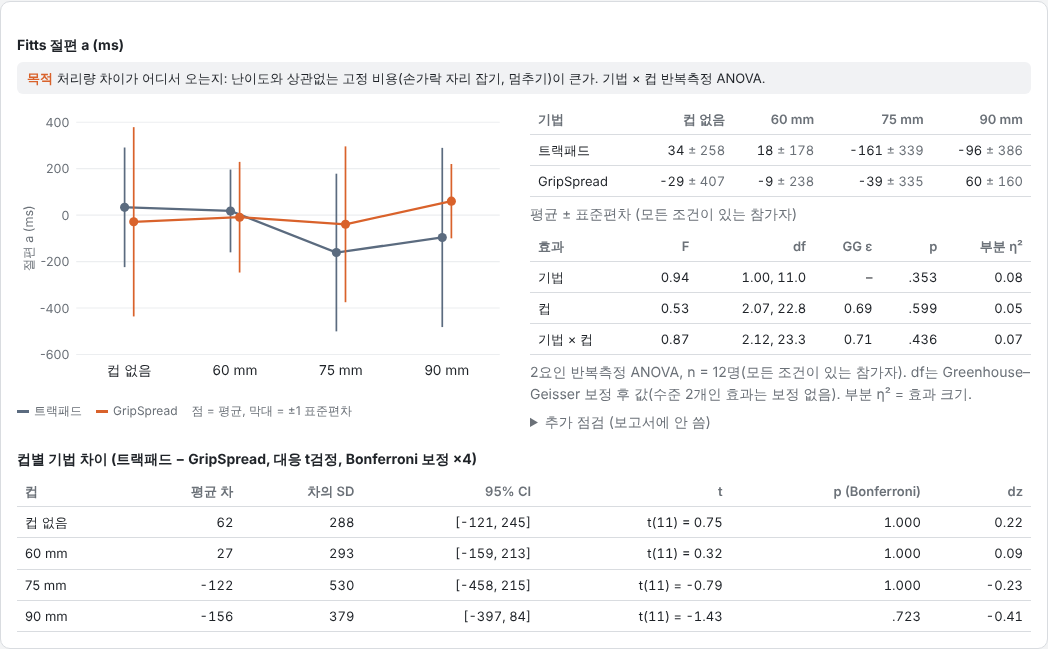
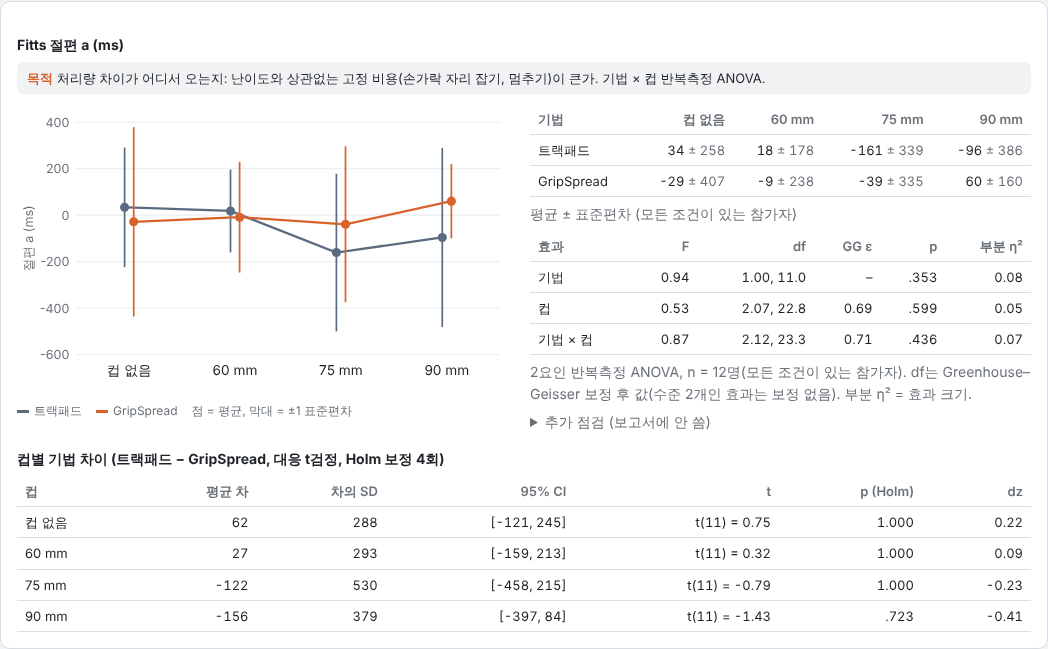
Post hoc correction: Holm (paired t per cup, ISO items, SEQ per cup)
Claude-Session: https://claude.ai/code/session_013deP5HWVjtqsNTzrxM9ME1

diff --git a/dist/gripspread_analysis.html b/dist/gripspread_analysis.html
@@ -430,7 +430,7 @@ function ols(x, y){ const k = x.length; if(k < 3) return { a:NaN, b:NaN, r2:NaN,
   const b = sxy / sxx, a = my - b*mx, sse = y.reduce((s, v, i) => s + (v - a - b*x[i])**2, 0), sst = y.reduce((s, v) => s + (v-my)**2, 0);
   const r2 = sst ? 1 - sse/sst : NaN, se = Math.sqrt(sse / (k-2) / sxx), t = b / se;
   return { a, b, r2, t, p:isFinite(t) ? pT2(Math.abs(t), k-2) : NaN, k }; }
-// Bonferroni: p × number of comparisons, capped at 1 (the post hoc correction used in the report; Lecture 13)
+// Bonferroni: p × number of comparisons, capped at 1 (kept for reference; the report uses Holm)
 function bonf(ps){ const m = ps.filter(isFinite).length; return ps.map(p => isFinite(p) ? Math.min(1, p * m) : NaN); }
 // Wilcoxon signed-rank, exact (ties: average ranks, distribution over doubled ranks)
 function wilcoxon(x, y){
@@ -683,10 +683,10 @@ function postHoc(cells, key, cups, digits, pct){
   const tests = cups.map(c => { const x = [], y = [];
     for(const pid of used){ const a = cells.find(e => e.pid === pid && e.tech === 'trackpad' && e.cup === c), b = cells.find(e => e.pid === pid && e.tech === 'gs' && e.cup === c); x.push(a[key]); y.push(b[key]); }
     return x.length >= 3 ? pairedT(x, y) : null; });
-  const adj = bonf(tests.map(r => r ? r.p : NaN)), f = v => pct ? fmt(v*100, digits) + '%p' : fmt(v, digits);
+  const adj = holm(tests.map(r => r ? r.p : NaN)), f = v => pct ? fmt(v*100, digits) + '%p' : fmt(v, digits);
   const rows = cups.map((c, i) => { const r = tests[i]; if(!r) return `<tr><td>${CUP_NAME[c]}</td><td colspan="6" class="muted">참가자 부족</td></tr>`;
     return `<tr><td>${CUP_NAME[c]}</td><td class="num">${f(r.m)}</td><td class="num">${f(r.s)}</td><td class="num">[${f(r.lo)}, ${f(r.hi)}]</td><td class="num">t(${r.df}) = ${fmt(r.t)}</td><td class="num${stars(adj[i])}">${fp(adj[i])}</td><td class="num">${fmt(r.d)}</td></tr>`; });
-  return `<h3>컵별 기법 차이 (트랙패드 − GripSpread, 대응 t검정, Bonferroni 보정 ×${cups.length})</h3><table><tr><th>컵</th><th>평균 차</th><th>차의 SD</th><th>95% CI</th><th>t</th><th>p (Bonferroni)</th><th>dz</th></tr>${rows.join('')}</table>`;
+  return `<h3>컵별 기법 차이 (트랙패드 − GripSpread, 대응 t검정, Holm 보정 ${cups.length}회)</h3><table><tr><th>컵</th><th>평균 차</th><th>차의 SD</th><th>95% CI</th><th>t</th><th>p (Holm)</th><th>dz</th></tr>${rows.join('')}</table>`;
 }
 function block(title, cells, key, cups, opt){
   const desc = describeWS(cells, key, cups), { Y, used } = matrix(cells, key, cups);
@@ -714,17 +714,17 @@ function render(R){
   const tilt = block('컵 최대 기울기 변화 (°, H3)', cells, 'tilt_max', CUPS3, { yLabel:'최대 기울기 변화 (°)', digits:2, purpose:'<b>H3</b> 컵이 커질수록 트랙패드에서 컵이 더 기우는가. 기법 × 컵 상호작용이 유의하고 큰 컵에서 트랙패드가 더 크면 H3 지지.' });
   const tilt1 = block('컵 1초 안 최대 기울기 변화 (°, H3 보조: 시행 길이에 덜 민감)', cells, 'tilt_1s', CUPS3, { yLabel:'1초 안 최대 기울기 변화 (°)', digits:2, purpose:'H3 보조. 오래 걸려서 많이 기운 것뿐인지 배제. 이것도 같은 방향이면 H3 해석이 단단해진다.' });
   const seqB = block('SEQ: 조건별 난이도 (1 매우 어려움 – 7 매우 쉬움)', cells, 'seq', CUPS, { yLabel:'SEQ (높을수록 쉬움)', digits:2 });
-  // SEQ is ordinal: per cup, the two techniques compared with a Wilcoxon signed-rank test, Bonferroni over the cups
+  // SEQ is ordinal: per cup, the two techniques compared with a Wilcoxon signed-rank test, Holm over the cups
   const seqRows = CUPS.map(c => { const x = [], y = [];
     for(const pid of [...new Set(cells.map(e => e.pid))]){ const a = cells.find(e => e.pid === pid && e.tech === 'trackpad' && e.cup === c), b = cells.find(e => e.pid === pid && e.tech === 'gs' && e.cup === c);
       if(a && b && isFinite(a.seq) && isFinite(b.seq)){ x.push(a.seq); y.push(b.seq); } }
     return { c, x, y, n:x.length, w:x.length ? wilcoxon(x, y) : { W:NaN, p:NaN } }; });
-  const seqP = bonf(seqRows.map(r => r.w.p));
+  const seqP = holm(seqRows.map(r => r.w.p));
   const seqMed = v => { const q = [...v].sort((a, b) => a - b); return q.length ? (q[(q.length-1)>>1] + q[q.length>>1]) / 2 : NaN; };
   const seqHtml = `<div class="card"><h3>SEQ: 조건별 난이도 (1 매우 어려움 – 7 매우 쉬움)</h3>
-    <p class="purpose"><b>목적</b> 성능 결과(H1)와 참가자 체감이 같은 방향인가. 보조 지표라 결론은 성능·IMU로 내고 이건 뒷받침용. 서열 척도라 컵마다 두 기법을 Wilcoxon으로 비교(Bonferroni ×4).</p>
+    <p class="purpose"><b>목적</b> 성능 결과(H1)와 참가자 체감이 같은 방향인가. 보조 지표라 결론은 성능·IMU로 내고 이건 뒷받침용. 서열 척도라 컵마다 두 기법을 Wilcoxon으로 비교(Holm 보정 4회).</p>
     <div class="grid"><div class="chart">${chart(seqB.desc, CUPS, { yLabel:'SEQ (높을수록 쉬움)', digits:2 })}${legendOf()}</div><div class="scroll">
-    <table><tr><th>컵</th><th>트랙패드 평균 (SD)</th><th>GripSpread 평균 (SD)</th><th>트랙패드 중앙값</th><th>GripSpread 중앙값</th><th>n</th><th>Wilcoxon W</th><th>p (Bonferroni)</th></tr>${seqRows.map((r, i) => `<tr><td>${CUP_NAME[r.c]}</td><td class="num">${fmt(mean(r.x),2)} (${fmt(sd(r.x),2)})</td><td class="num">${fmt(mean(r.y),2)} (${fmt(sd(r.y),2)})</td><td class="num">${fmt(seqMed(r.x),1)}</td><td class="num">${fmt(seqMed(r.y),1)}</td><td class="num">${r.n}</td><td class="num">${fmt(r.w.W,1)}</td><td class="num${stars(seqP[i])}">${fp(seqP[i])}</td></tr>`).join('')}</table></div></div>
+    <table><tr><th>컵</th><th>트랙패드 평균 (SD)</th><th>GripSpread 평균 (SD)</th><th>트랙패드 중앙값</th><th>GripSpread 중앙값</th><th>n</th><th>Wilcoxon W</th><th>p (Holm)</th></tr>${seqRows.map((r, i) => `<tr><td>${CUP_NAME[r.c]}</td><td class="num">${fmt(mean(r.x),2)} (${fmt(sd(r.x),2)})</td><td class="num">${fmt(mean(r.y),2)} (${fmt(sd(r.y),2)})</td><td class="num">${fmt(seqMed(r.x),1)}</td><td class="num">${fmt(seqMed(r.y),1)}</td><td class="num">${r.n}</td><td class="num">${fmt(r.w.W,1)}</td><td class="num${stars(seqP[i])}">${fp(seqP[i])}</td></tr>`).join('')}</table></div></div>
     <details><summary class="muted">추가 점검 (보고서에 안 씀): 반복측정 ANOVA·ART</summary>${seqB.html}</details></div>`;
   seqB.rows = seqRows; seqB.p = seqP;
   const fitts = fittsSection(cells);
@@ -744,7 +744,7 @@ function render(R){
     // for middle-ideal items also compare the distance from 3 (how far from "just right")
     const dist = ideal === 'mid' ? wilcoxon(x.map(v => Math.abs(v - 3)), y.map(v => Math.abs(v - 3))) : null;
     return { k, name, ideal, n:x.length, mx:med(x), my:med(y), w:wilcoxon(x, y), dist, x, y }; });
-  const isoP = bonf(isoRows.map(r => r.w.p));
+  const isoP = holm(isoRows.map(r => r.w.p));
   const people = roster.map(r => `<tr><td>${r.pid}</td><td>${r.order}</td><td>${r.hand}</td><td class="num">${fmt(r.handLen,0)}</td><td class="num">${fmt(r.span,0)}</td><td class="num">${r.stature ?? '–'}</td><td class="num">${r.trials}</td><td class="num">${fmt(r.success*100,1)}%</td><td class="num">${r.outliers}</td><td class="num">${r.imuTrials}</td><td class="${r.warn.length ? 'w' : 'muted'}" style="text-align:left;white-space:normal">${r.warn.join(' · ') || '없음'}</td></tr>`).join('');
 
   $('out').innerHTML = (DEMO ? `<div class="card" style="border-color:#B00020;color:#B00020"><b>데모 · 가짜 데이터</b> 아래 숫자는 모두 지어낸 것이다. 표와 그림이 어떻게 나오는지 보는 용도.</div>` : '') + `
@@ -770,10 +770,10 @@ function render(R){
   <div class="card scroll"><table><tr><th>항목</th><th>트랙패드 중앙값</th><th>GripSpread 중앙값</th><th>트랙패드 평균 (SD)</th><th>GripSpread 평균 (SD)</th><th>n</th><th>Wilcoxon W</th><th>p</th></tr>${tlxRows.map(r => `<tr><td>${TLX_NAME[r.k]}</td><td class="num">${fmt(r.mx,1)}</td><td class="num">${fmt(r.my,1)}</td><td class="num">${fmt(mean(r.x),1)} (${fmt(sd(r.x),1)})</td><td class="num">${fmt(mean(r.y),1)} (${fmt(sd(r.y),1)})</td><td class="num">${r.n}</td><td class="num">${fmt(r.w.W,1)}</td><td class="num${stars(r.w.p)}">${fp(r.w.p)}</td></tr>`).join('')}</table>
   <p class="muted">기법별로 한 번씩 받았으므로 대응 Wilcoxon 부호순위 검정(정확 p). 0–100점, 낮을수록 부담이 적다.</p></div>
   <h2>주관 평가 · 장치 평가 (ISO 9241-9)</h2>
-  <p class="purpose"><b>목적</b> 어느 부위가 힘든지(손가락·손목·팔·어깨·목)와 조작감이 어떻게 다른지. TLX의 "신체적 요구" 한 숫자를 부위별로 풀어 본다. 대응 Wilcoxon, 13문항 Bonferroni.</p>
+  <p class="purpose"><b>목적</b> 어느 부위가 힘든지(손가락·손목·팔·어깨·목)와 조작감이 어떻게 다른지. TLX의 "신체적 요구" 한 숫자를 부위별로 풀어 본다. 대응 Wilcoxon, 13문항 Holm 보정.</p>
   <div class="card">${dotPlot(isoRows.map(r => ({ ...r, name:r.name.replace(/ \(.*\)$/, '') })), { min:1, max:5, step:1, label:'1–5 (왼쪽 끝 말 – 오른쪽 끝 말, 아래 표 참고). 초록 칸 = 좋은 쪽', idealOf:r => ({ mid:3, lo:1, hi:5 })[r.ideal] })}</div>
-  <div class="card scroll"><table><tr><th style="text-align:left">항목</th><th>좋은 쪽</th><th>트랙패드 중앙값</th><th>GripSpread 중앙값</th><th>트랙패드 평균 (SD)</th><th>GripSpread 평균 (SD)</th><th>n</th><th>Wilcoxon W</th><th>p</th><th>Bonferroni p</th></tr>${isoRows.map((r, i) => `<tr><td style="text-align:left">${r.name}</td><td>${{ mid:'3 (적당)', lo:'1', hi:'5' }[r.ideal]}</td><td class="num">${fmt(r.mx,1)}</td><td class="num">${fmt(r.my,1)}</td><td class="num">${fmt(mean(r.x),2)} (${fmt(sd(r.x),2)})</td><td class="num">${fmt(mean(r.y),2)} (${fmt(sd(r.y),2)})</td><td class="num">${r.n}</td><td class="num">${fmt(r.w.W,1)}</td><td class="num${stars(r.w.p)}">${fp(r.w.p)}</td><td class="num${stars(isoP[i])}">${fp(isoP[i])}</td></tr>`).join('')}</table>
-  <p class="muted">기법별로 한 번씩, 13문항 전부(Douglas, Kirkpatrick &amp; MacKenzie, CHI 1999의 5점 형식). 대응 Wilcoxon 부호순위 검정, 13문항에 Bonferroni 보정. 힘·정신적 노력·신체적 노력·속도는 "너무 적음–너무 많음" 척도라 3이 가장 좋다.</p></div>
+  <div class="card scroll"><table><tr><th style="text-align:left">항목</th><th>좋은 쪽</th><th>트랙패드 중앙값</th><th>GripSpread 중앙값</th><th>트랙패드 평균 (SD)</th><th>GripSpread 평균 (SD)</th><th>n</th><th>Wilcoxon W</th><th>p</th><th>Holm p</th></tr>${isoRows.map((r, i) => `<tr><td style="text-align:left">${r.name}</td><td>${{ mid:'3 (적당)', lo:'1', hi:'5' }[r.ideal]}</td><td class="num">${fmt(r.mx,1)}</td><td class="num">${fmt(r.my,1)}</td><td class="num">${fmt(mean(r.x),2)} (${fmt(sd(r.x),2)})</td><td class="num">${fmt(mean(r.y),2)} (${fmt(sd(r.y),2)})</td><td class="num">${r.n}</td><td class="num">${fmt(r.w.W,1)}</td><td class="num${stars(r.w.p)}">${fp(r.w.p)}</td><td class="num${stars(isoP[i])}">${fp(isoP[i])}</td></tr>`).join('')}</table>
+  <p class="muted">기법별로 한 번씩, 13문항 전부(Douglas, Kirkpatrick &amp; MacKenzie, CHI 1999의 5점 형식). 대응 Wilcoxon 부호순위 검정, 13문항에 Holm 보정. 힘·정신적 노력·신체적 노력·속도는 "너무 적음–너무 많음" 척도라 3이 가장 좋다.</p></div>
 </section>
   <section id="a-iv"><h2>인터뷰 요약</h2>${interviewTable(R.interview)}</section>
   <h1 class="part">추가 점검 (보고서에 안 씀)</h1>
@@ -888,7 +888,7 @@ function sentences({ tp, loss, rms, lin, tilt, tilt1, seqB, n, tlxRows, fitts })
     ...[[rms, '스크롤 중 컵 각속도 RMS', '°/s', 2], [lin, '선형 가속도 RMS(보조)', 'm/s²', 2], [tilt, '최대 기울기 변화', '°', 2], [tilt1, '1초 안 최대 기울기 변화', '°', 2]].filter(([b]) => b).map(([b, name, unit, dg]) =>
       `${name}는 컵 지름 60 / 75 / 90 mm에서 트랙패드 ${CUPS3.map(c => d(b,'trackpad',c,dg)).join(' / ')} ${unit}, GripSpread ${CUPS3.map(c => d(b,'gs',c,dg)).join(' / ')} ${unit}였다. ` +
       `기법 × 컵 상호작용: ${eff(b.A, '기법 × 컵', b)}. 기법 주효과: ${eff(b.A, '기법', b)}. 컵 주효과: ${eff(b.A, '컵', b)}.`),
-    seqB.rows ? `SEQ(1–7, 높을수록 쉬움)는 컵 없음 / 60 / 75 / 90 mm에서 트랙패드 ${CUPS.map(c => d(seqB,'trackpad',c,2)).join(' / ')}, GripSpread ${CUPS.map(c => d(seqB,'gs',c,2)).join(' / ')}였다. 컵별 Wilcoxon(Bonferroni): ${CUPS.map((c, i) => `${CUP_NAME[c]} p ${seqB.p[i] < .001 ? '< .001' : '= ' + fp(seqB.p[i])}`).join(', ')}.` : '',
+    seqB.rows ? `SEQ(1–7, 높을수록 쉬움)는 컵 없음 / 60 / 75 / 90 mm에서 트랙패드 ${CUPS.map(c => d(seqB,'trackpad',c,2)).join(' / ')}, GripSpread ${CUPS.map(c => d(seqB,'gs',c,2)).join(' / ')}였다. 컵별 Wilcoxon(Holm): ${CUPS.map((c, i) => `${CUP_NAME[c]} p ${seqB.p[i] < .001 ? '< .001' : '= ' + fp(seqB.p[i])}`).join(', ')}.` : '',
     raw ? `Raw TLX 중앙값은 트랙패드 ${fmt(raw.mx,1)}, GripSpread ${fmt(raw.my,1)}(평균 ${fmt(mean(raw.x),1)} (SD ${fmt(sd(raw.x),1)}) / ${fmt(mean(raw.y),1)} (SD ${fmt(sd(raw.y),1)}))였다(Wilcoxon W = ${fmt(raw.w.W,1)}, p ${raw.w.p < .001 ? '< .001' : '= ' + fp(raw.w.p)}, n = ${raw.n}).` : ''
   ].filter(Boolean).join('\n');
 }

diff --git a/src/analysis.html b/src/analysis.html
@@ -401,7 +401,7 @@ function ols(x, y){ const k = x.length; if(k < 3) return { a:NaN, b:NaN, r2:NaN,
   const b = sxy / sxx, a = my - b*mx, sse = y.reduce((s, v, i) => s + (v - a - b*x[i])**2, 0), sst = y.reduce((s, v) => s + (v-my)**2, 0);
   const r2 = sst ? 1 - sse/sst : NaN, se = Math.sqrt(sse / (k-2) / sxx), t = b / se;
   return { a, b, r2, t, p:isFinite(t) ? pT2(Math.abs(t), k-2) : NaN, k }; }
-// Bonferroni: p × number of comparisons, capped at 1 (the post hoc correction used in the report; Lecture 13)
+// Bonferroni: p × number of comparisons, capped at 1 (kept for reference; the report uses Holm)
 function bonf(ps){ const m = ps.filter(isFinite).length; return ps.map(p => isFinite(p) ? Math.min(1, p * m) : NaN); }
 // Wilcoxon signed-rank, exact (ties: average ranks, distribution over doubled ranks)
 function wilcoxon(x, y){
@@ -654,10 +654,10 @@ function postHoc(cells, key, cups, digits, pct){
   const tests = cups.map(c => { const x = [], y = [];
     for(const pid of used){ const a = cells.find(e => e.pid === pid && e.tech === 'trackpad' && e.cup === c), b = cells.find(e => e.pid === pid && e.tech === 'gs' && e.cup === c); x.push(a[key]); y.push(b[key]); }
     return x.length >= 3 ? pairedT(x, y) : null; });
-  const adj = bonf(tests.map(r => r ? r.p : NaN)), f = v => pct ? fmt(v*100, digits) + '%p' : fmt(v, digits);
+  const adj = holm(tests.map(r => r ? r.p : NaN)), f = v => pct ? fmt(v*100, digits) + '%p' : fmt(v, digits);
   const rows = cups.map((c, i) => { const r = tests[i]; if(!r) return `<tr><td>${CUP_NAME[c]}</td><td colspan="6" class="muted">참가자 부족</td></tr>`;
     return `<tr><td>${CUP_NAME[c]}</td><td class="num">${f(r.m)}</td><td class="num">${f(r.s)}</td><td class="num">[${f(r.lo)}, ${f(r.hi)}]</td><td class="num">t(${r.df}) = ${fmt(r.t)}</td><td class="num${stars(adj[i])}">${fp(adj[i])}</td><td class="num">${fmt(r.d)}</td></tr>`; });
-  return `<h3>컵별 기법 차이 (트랙패드 − GripSpread, 대응 t검정, Bonferroni 보정 ×${cups.length})</h3><table><tr><th>컵</th><th>평균 차</th><th>차의 SD</th><th>95% CI</th><th>t</th><th>p (Bonferroni)</th><th>dz</th></tr>${rows.join('')}</table>`;
+  return `<h3>컵별 기법 차이 (트랙패드 − GripSpread, 대응 t검정, Holm 보정 ${cups.length}회)</h3><table><tr><th>컵</th><th>평균 차</th><th>차의 SD</th><th>95% CI</th><th>t</th><th>p (Holm)</th><th>dz</th></tr>${rows.join('')}</table>`;
 }
 function block(title, cells, key, cups, opt){
   const desc = describeWS(cells, key, cups), { Y, used } = matrix(cells, key, cups);
@@ -685,17 +685,17 @@ function render(R){
   const tilt = block('컵 최대 기울기 변화 (°, H3)', cells, 'tilt_max', CUPS3, { yLabel:'최대 기울기 변화 (°)', digits:2, purpose:'<b>H3</b> 컵이 커질수록 트랙패드에서 컵이 더 기우는가. 기법 × 컵 상호작용이 유의하고 큰 컵에서 트랙패드가 더 크면 H3 지지.' });
   const tilt1 = block('컵 1초 안 최대 기울기 변화 (°, H3 보조: 시행 길이에 덜 민감)', cells, 'tilt_1s', CUPS3, { yLabel:'1초 안 최대 기울기 변화 (°)', digits:2, purpose:'H3 보조. 오래 걸려서 많이 기운 것뿐인지 배제. 이것도 같은 방향이면 H3 해석이 단단해진다.' });
   const seqB = block('SEQ: 조건별 난이도 (1 매우 어려움 – 7 매우 쉬움)', cells, 'seq', CUPS, { yLabel:'SEQ (높을수록 쉬움)', digits:2 });
-  // SEQ is ordinal: per cup, the two techniques compared with a Wilcoxon signed-rank test, Bonferroni over the cups
+  // SEQ is ordinal: per cup, the two techniques compared with a Wilcoxon signed-rank test, Holm over the cups
   const seqRows = CUPS.map(c => { const x = [], y = [];
     for(const pid of [...new Set(cells.map(e => e.pid))]){ const a = cells.find(e => e.pid === pid && e.tech === 'trackpad' && e.cup === c), b = cells.find(e => e.pid === pid && e.tech === 'gs' && e.cup === c);
       if(a && b && isFinite(a.seq) && isFinite(b.seq)){ x.push(a.seq); y.push(b.seq); } }
     return { c, x, y, n:x.length, w:x.length ? wilcoxon(x, y) : { W:NaN, p:NaN } }; });
-  const seqP = bonf(seqRows.map(r => r.w.p));
+  const seqP = holm(seqRows.map(r => r.w.p));
   const seqMed = v => { const q = [...v].sort((a, b) => a - b); return q.length ? (q[(q.length-1)>>1] + q[q.length>>1]) / 2 : NaN; };
   const seqHtml = `<div class="card"><h3>SEQ: 조건별 난이도 (1 매우 어려움 – 7 매우 쉬움)</h3>
-    <p class="purpose"><b>목적</b> 성능 결과(H1)와 참가자 체감이 같은 방향인가. 보조 지표라 결론은 성능·IMU로 내고 이건 뒷받침용. 서열 척도라 컵마다 두 기법을 Wilcoxon으로 비교(Bonferroni ×4).</p>
+    <p class="purpose"><b>목적</b> 성능 결과(H1)와 참가자 체감이 같은 방향인가. 보조 지표라 결론은 성능·IMU로 내고 이건 뒷받침용. 서열 척도라 컵마다 두 기법을 Wilcoxon으로 비교(Holm 보정 4회).</p>
     <div class="grid"><div class="chart">${chart(seqB.desc, CUPS, { yLabel:'SEQ (높을수록 쉬움)', digits:2 })}${legendOf()}</div><div class="scroll">
-    <table><tr><th>컵</th><th>트랙패드 평균 (SD)</th><th>GripSpread 평균 (SD)</th><th>트랙패드 중앙값</th><th>GripSpread 중앙값</th><th>n</th><th>Wilcoxon W</th><th>p (Bonferroni)</th></tr>${seqRows.map((r, i) => `<tr><td>${CUP_NAME[r.c]}</td><td class="num">${fmt(mean(r.x),2)} (${fmt(sd(r.x),2)})</td><td class="num">${fmt(mean(r.y),2)} (${fmt(sd(r.y),2)})</td><td class="num">${fmt(seqMed(r.x),1)}</td><td class="num">${fmt(seqMed(r.y),1)}</td><td class="num">${r.n}</td><td class="num">${fmt(r.w.W,1)}</td><td class="num${stars(seqP[i])}">${fp(seqP[i])}</td></tr>`).join('')}</table></div></div>
+    <table><tr><th>컵</th><th>트랙패드 평균 (SD)</th><th>GripSpread 평균 (SD)</th><th>트랙패드 중앙값</th><th>GripSpread 중앙값</th><th>n</th><th>Wilcoxon W</th><th>p (Holm)</th></tr>${seqRows.map((r, i) => `<tr><td>${CUP_NAME[r.c]}</td><td class="num">${fmt(mean(r.x),2)} (${fmt(sd(r.x),2)})</td><td class="num">${fmt(mean(r.y),2)} (${fmt(sd(r.y),2)})</td><td class="num">${fmt(seqMed(r.x),1)}</td><td class="num">${fmt(seqMed(r.y),1)}</td><td class="num">${r.n}</td><td class="num">${fmt(r.w.W,1)}</td><td class="num${stars(seqP[i])}">${fp(seqP[i])}</td></tr>`).join('')}</table></div></div>
     <details><summary class="muted">추가 점검 (보고서에 안 씀): 반복측정 ANOVA·ART</summary>${seqB.html}</details></div>`;
   seqB.rows = seqRows; seqB.p = seqP;
   const fitts = fittsSection(cells);
@@ -715,7 +715,7 @@ function render(R){
     // for middle-ideal items also compare the distance from 3 (how far from "just right")
     const dist = ideal === 'mid' ? wilcoxon(x.map(v => Math.abs(v - 3)), y.map(v => Math.abs(v - 3))) : null;
     return { k, name, ideal, n:x.length, mx:med(x), my:med(y), w:wilcoxon(x, y), dist, x, y }; });
-  const isoP = bonf(isoRows.map(r => r.w.p));
+  const isoP = holm(isoRows.map(r => r.w.p));
   const people = roster.map(r => `<tr><td>${r.pid}</td><td>${r.order}</td><td>${r.hand}</td><td class="num">${fmt(r.handLen,0)}</td><td class="num">${fmt(r.span,0)}</td><td class="num">${r.stature ?? '–'}</td><td class="num">${r.trials}</td><td class="num">${fmt(r.success*100,1)}%</td><td class="num">${r.outliers}</td><td class="num">${r.imuTrials}</td><td class="${r.warn.length ? 'w' : 'muted'}" style="text-align:left;white-space:normal">${r.warn.join(' · ') || '없음'}</td></tr>`).join('');
 
   $('out').innerHTML = (DEMO ? `<div class="card" style="border-color:#B00020;color:#B00020"><b>데모 · 가짜 데이터</b> 아래 숫자는 모두 지어낸 것이다. 표와 그림이 어떻게 나오는지 보는 용도.</div>` : '') + `
@@ -741,10 +741,10 @@ function render(R){
   <div class="card scroll"><table><tr><th>항목</th><th>트랙패드 중앙값</th><th>GripSpread 중앙값</th><th>트랙패드 평균 (SD)</th><th>GripSpread 평균 (SD)</th><th>n</th><th>Wilcoxon W</th><th>p</th></tr>${tlxRows.map(r => `<tr><td>${TLX_NAME[r.k]}</td><td class="num">${fmt(r.mx,1)}</td><td class="num">${fmt(r.my,1)}</td><td class="num">${fmt(mean(r.x),1)} (${fmt(sd(r.x),1)})</td><td class="num">${fmt(mean(r.y),1)} (${fmt(sd(r.y),1)})</td><td class="num">${r.n}</td><td class="num">${fmt(r.w.W,1)}</td><td class="num${stars(r.w.p)}">${fp(r.w.p)}</td></tr>`).join('')}</table>
   <p class="muted">기법별로 한 번씩 받았으므로 대응 Wilcoxon 부호순위 검정(정확 p). 0–100점, 낮을수록 부담이 적다.</p></div>
   <h2>주관 평가 · 장치 평가 (ISO 9241-9)</h2>
-  <p class="purpose"><b>목적</b> 어느 부위가 힘든지(손가락·손목·팔·어깨·목)와 조작감이 어떻게 다른지. TLX의 "신체적 요구" 한 숫자를 부위별로 풀어 본다. 대응 Wilcoxon, 13문항 Bonferroni.</p>
+  <p class="purpose"><b>목적</b> 어느 부위가 힘든지(손가락·손목·팔·어깨·목)와 조작감이 어떻게 다른지. TLX의 "신체적 요구" 한 숫자를 부위별로 풀어 본다. 대응 Wilcoxon, 13문항 Holm 보정.</p>
   <div class="card">${dotPlot(isoRows.map(r => ({ ...r, name:r.name.replace(/ \(.*\)$/, '') })), { min:1, max:5, step:1, label:'1–5 (왼쪽 끝 말 – 오른쪽 끝 말, 아래 표 참고). 초록 칸 = 좋은 쪽', idealOf:r => ({ mid:3, lo:1, hi:5 })[r.ideal] })}</div>
-  <div class="card scroll"><table><tr><th style="text-align:left">항목</th><th>좋은 쪽</th><th>트랙패드 중앙값</th><th>GripSpread 중앙값</th><th>트랙패드 평균 (SD)</th><th>GripSpread 평균 (SD)</th><th>n</th><th>Wilcoxon W</th><th>p</th><th>Bonferroni p</th></tr>${isoRows.map((r, i) => `<tr><td style="text-align:left">${r.name}</td><td>${{ mid:'3 (적당)', lo:'1', hi:'5' }[r.ideal]}</td><td class="num">${fmt(r.mx,1)}</td><td class="num">${fmt(r.my,1)}</td><td class="num">${fmt(mean(r.x),2)} (${fmt(sd(r.x),2)})</td><td class="num">${fmt(mean(r.y),2)} (${fmt(sd(r.y),2)})</td><td class="num">${r.n}</td><td class="num">${fmt(r.w.W,1)}</td><td class="num${stars(r.w.p)}">${fp(r.w.p)}</td><td class="num${stars(isoP[i])}">${fp(isoP[i])}</td></tr>`).join('')}</table>
-  <p class="muted">기법별로 한 번씩, 13문항 전부(Douglas, Kirkpatrick &amp; MacKenzie, CHI 1999의 5점 형식). 대응 Wilcoxon 부호순위 검정, 13문항에 Bonferroni 보정. 힘·정신적 노력·신체적 노력·속도는 "너무 적음–너무 많음" 척도라 3이 가장 좋다.</p></div>
+  <div class="card scroll"><table><tr><th style="text-align:left">항목</th><th>좋은 쪽</th><th>트랙패드 중앙값</th><th>GripSpread 중앙값</th><th>트랙패드 평균 (SD)</th><th>GripSpread 평균 (SD)</th><th>n</th><th>Wilcoxon W</th><th>p</th><th>Holm p</th></tr>${isoRows.map((r, i) => `<tr><td style="text-align:left">${r.name}</td><td>${{ mid:'3 (적당)', lo:'1', hi:'5' }[r.ideal]}</td><td class="num">${fmt(r.mx,1)}</td><td class="num">${fmt(r.my,1)}</td><td class="num">${fmt(mean(r.x),2)} (${fmt(sd(r.x),2)})</td><td class="num">${fmt(mean(r.y),2)} (${fmt(sd(r.y),2)})</td><td class="num">${r.n}</td><td class="num">${fmt(r.w.W,1)}</td><td class="num${stars(r.w.p)}">${fp(r.w.p)}</td><td class="num${stars(isoP[i])}">${fp(isoP[i])}</td></tr>`).join('')}</table>
+  <p class="muted">기법별로 한 번씩, 13문항 전부(Douglas, Kirkpatrick &amp; MacKenzie, CHI 1999의 5점 형식). 대응 Wilcoxon 부호순위 검정, 13문항에 Holm 보정. 힘·정신적 노력·신체적 노력·속도는 "너무 적음–너무 많음" 척도라 3이 가장 좋다.</p></div>
 </section>
   <section id="a-iv"><h2>인터뷰 요약</h2>${interviewTable(R.interview)}</section>
   <h1 class="part">추가 점검 (보고서에 안 씀)</h1>
@@ -859,7 +859,7 @@ function sentences({ tp, loss, rms, lin, tilt, tilt1, seqB, n, tlxRows, fitts })
     ...[[rms, '스크롤 중 컵 각속도 RMS', '°/s', 2], [lin, '선형 가속도 RMS(보조)', 'm/s²', 2], [tilt, '최대 기울기 변화', '°', 2], [tilt1, '1초 안 최대 기울기 변화', '°', 2]].filter(([b]) => b).map(([b, name, unit, dg]) =>
       `${name}는 컵 지름 60 / 75 / 90 mm에서 트랙패드 ${CUPS3.map(c => d(b,'trackpad',c,dg)).join(' / ')} ${unit}, GripSpread ${CUPS3.map(c => d(b,'gs',c,dg)).join(' / ')} ${unit}였다. ` +
       `기법 × 컵 상호작용: ${eff(b.A, '기법 × 컵', b)}. 기법 주효과: ${eff(b.A, '기법', b)}. 컵 주효과: ${eff(b.A, '컵', b)}.`),
-    seqB.rows ? `SEQ(1–7, 높을수록 쉬움)는 컵 없음 / 60 / 75 / 90 mm에서 트랙패드 ${CUPS.map(c => d(seqB,'trackpad',c,2)).join(' / ')}, GripSpread ${CUPS.map(c => d(seqB,'gs',c,2)).join(' / ')}였다. 컵별 Wilcoxon(Bonferroni): ${CUPS.map((c, i) => `${CUP_NAME[c]} p ${seqB.p[i] < .001 ? '< .001' : '= ' + fp(seqB.p[i])}`).join(', ')}.` : '',
+    seqB.rows ? `SEQ(1–7, 높을수록 쉬움)는 컵 없음 / 60 / 75 / 90 mm에서 트랙패드 ${CUPS.map(c => d(seqB,'trackpad',c,2)).join(' / ')}, GripSpread ${CUPS.map(c => d(seqB,'gs',c,2)).join(' / ')}였다. 컵별 Wilcoxon(Holm): ${CUPS.map((c, i) => `${CUP_NAME[c]} p ${seqB.p[i] < .001 ? '< .001' : '= ' + fp(seqB.p[i])}`).join(', ')}.` : '',
     raw ? `Raw TLX 중앙값은 트랙패드 ${fmt(raw.mx,1)}, GripSpread ${fmt(raw.my,1)}(평균 ${fmt(mean(raw.x),1)} (SD ${fmt(sd(raw.x),1)}) / ${fmt(mean(raw.y),1)} (SD ${fmt(sd(raw.y),1)}))였다(Wilcoxon W = ${fmt(raw.w.W,1)}, p ${raw.w.p < .001 ? '< .001' : '= ' + fp(raw.w.p)}, n = ${raw.n}).` : ''
   ].filter(Boolean).join('\n');
 }

diff --git a/README.md b/README.md
@@ -148,9 +148,9 @@ CSE333 HCI개론 (UNIST, 2026 가을) Team 10 프로젝트.
 - **처리량:** D × W 칸마다 평균 ID ÷ 평균 이동 시간(s), 그 평균(명목 처리량. 회색 영역 안에서 멈춰야 성공이라 끝점이 폭 안으로 제한되므로 유효 폭 대신 명목 폭). 손실 = 1 − 컵 처리량 ÷ 컵 없음 처리량.
 - **컵 흔들림 (세 가지):** ① 회전 떨림 = 각속도 RMS(주 지표, 세션 정지 측정의 자이로 영점, 없으면 보정 파일 값). ② 회전 없이 밀리는 떨림 = 선형 가속도 RMS(보조, 가속도에서 아래 필터가 추정한 중력 1 g를 뺀 크기, m/s²). 손이 컵을 옆·앞뒤로 밀면 기울지 않아도 음료가 출렁이므로 추가했다. ③ 기울기. 기울기는 세션 IMU 전체를 중력 방향 상보 필터(자이로로 회전, 가속도 크기가 1 g ± 0.05 g일 때만 시간상수 1 s로 보정)에 넣어 손 가속을 기울기로 읽지 않게 하고, 시행 첫 샘플의 중력 방향과 이후 샘플 사이 최대 각도를 쓴다(수직축 회전은 기울기로 세지 않음). 합성 데이터로 10° 실제 기울기 → 10.00°, 0.4 g 옆 흔들기 → 0.00°, 수직축 회전 → 0.00°를 확인했다. 자이로와 가속도의 방향이 평균 2° 넘게 어긋나면 참가자 표에 경고한다. 최대 기울기는 시행이 길수록 커지므로(느린 시행은 기울 시간이 많음), 시행 길이에 덜 민감한 **1초 안 최대 기울기 변화**(1초 이내 두 샘플 사이 기울기 차이의 최댓값, 1초보다 짧은 시행은 시행 전체)를 같이 보고, 참가자 × 컵마다 이동 시간과 두 기울기 지표의 Spearman ρ를 보여 준다. 합성 데이터로 5°/s로 3초 기울이면 최대 15.05°, 1초 안 5.03°를 확인했다.
 - **검정 (보고서용, 수업 Lecture 13 범위):** 지표마다 분석 페이지에 "목적" 줄로 어느 가설·주장에 쓰는지 적어 둔다.
-  - 처리량 손실 → H1 (기법 × 컵 상호작용), 각속도 RMS → H2 (기법 주효과), 최대 기울기 → H3 (상호작용). 보조: 처리량, 이동 시간, 실패율, 선형 가속도, 1초 안 기울기, 방향 전환. 모두 2요인 반복측정 ANOVA(GG 보정, 부분 η²), 유의하면 컵마다 대응 t + Bonferroni.
+  - 처리량 손실 → H1 (기법 × 컵 상호작용), 각속도 RMS → H2 (기법 주효과), 최대 기울기 → H3 (상호작용). 보조: 처리량, 이동 시간, 실패율, 선형 가속도, 1초 안 기울기, 방향 전환. 모두 2요인 반복측정 ANOVA(GG 보정, 부분 η²), 유의하면 컵마다 대응 t + Holm 보정(가장 작은 p는 ×비교 수, 다음은 ×(비교 수 − 1)… 로 단계적으로 곱하는 Bonferroni 개선판).
   - **Fitts 적합:** 처리량 비교의 전제 확인. 조건마다 ID 4개의 평균 이동 시간에 직선(이동 시간 = a + b × ID)을 맞춰 R²와 기울기 t검정. 참가자별 기울기 b와 절편 a는 반복측정 ANOVA로 "어려운 목표에서 느려지나(b) / 고정 비용이 큰가(a)"를 본다.
-  - 설문: TLX·ISO는 대응 Wilcoxon(ISO 13문항 Bonferroni), SEQ는 컵마다 Wilcoxon(Bonferroni ×4, 보조).
+  - 설문: TLX·ISO는 대응 Wilcoxon(ISO 13문항 Holm), SEQ는 컵마다 Wilcoxon(Holm 4회, 보조).
   - 기울기–이동 시간: 참가자 × 컵마다 Spearman ρ, ρ가 0보다 큰지 Wilcoxon.
   - 평균은 항상 표준편차와 같이 보고한다. F, GG ε, p는 pingouin 0.7.0 `rm_anova`와 일치함을 확인했다.
 - **추가 점검 (보고서에 안 씀):** 분석 페이지의 접힌 칸에 η²G와 ART(비모수) ANOVA p를 보여 주고, 아래 순서 효과·이상 시행 민감도도 데이터 확인용으로만 쓴다.
@@ -164,9 +164,9 @@ CSE333 HCI개론 (UNIST, 2026 가을) Team 10 프로젝트.
 
 ## 주관 평가
 
-- **SEQ (Single Ease Question, Sauro & Dumas 2009):** 측정 조건이 끝날 때마다(8번) "전반적으로, 방금 조건에서 스크롤하는 것은" 1 매우 어려웠다 – 7 매우 쉬웠다. 양 끝에만 말이 있다. 컵 조건별 부담을 보려고 넣었다(TLX는 기법별 한 번이라 컵 효과를 못 봄). 보조 지표라 컵마다 두 기법을 Wilcoxon으로 비교한다(Bonferroni ×4). `<tag>_seq.csv`.
+- **SEQ (Single Ease Question, Sauro & Dumas 2009):** 측정 조건이 끝날 때마다(8번) "전반적으로, 방금 조건에서 스크롤하는 것은" 1 매우 어려웠다 – 7 매우 쉬웠다. 양 끝에만 말이 있다. 컵 조건별 부담을 보려고 넣었다(TLX는 기법별 한 번이라 컵 효과를 못 봄). 보조 지표라 컵마다 두 기법을 Wilcoxon으로 비교한다(Holm 4회). `<tag>_seq.csv`.
 - **NASA-TLX (Raw TLX):** 기법 블록이 끝날 때 한 번씩. 공식 6문항과 척도 정의를 한국어로 옮기고 "the task"는 "방금 한 스크롤"로 표현했다. 21칸 눈금(0–100, 5점 단위), 양 끝에만 말(매우 낮음/매우 높음, 수행은 완벽/실패), 숫자와 기본 위치는 보여 주지 않는다. 대응 Wilcoxon.
-- **ISO 9241-9 장치 평가 설문 (13문항 전부):** NASA-TLX 바로 뒤에 기법마다 한 번. 문항과 5점 형식은 Douglas, Kirkpatrick & MacKenzie (CHI 1999)를 따랐다(표준은 7점을 권하지만 그 연구는 파일럿에서 더 잘게 못 나눠 5점을 씀). 조작에 필요한 힘, 부드러움, 정신적 노력, 신체적 노력, 정확히 맞추기("Accurate pointing"을 스크롤에 맞게 "원하는 위치에 정확히 맞추기"로), 조작 속도, 손가락·손목·팔·어깨·목 피로, 전반적 편안함, 전반적 사용. TLX의 "신체적 요구"는 한 숫자라 어디가 힘든지 안 보이는데, GripSpread는 컵 든 손 손가락·손목을, 트랙패드는 반대 손을 쓰므로 부위별 피로가 핵심이라 넣었다. 대응 Wilcoxon(정확 p) + 13문항 Bonferroni 보정. 힘·노력·속도처럼 "너무 적음–너무 많음" 문항은 3이 가장 좋다. `<tag>_iso.csv`. 표준은 2012년에 ISO 9241-411로 바뀌었으므로 보고서 인용 판은 원문 확인 후 정한다.
+- **ISO 9241-9 장치 평가 설문 (13문항 전부):** NASA-TLX 바로 뒤에 기법마다 한 번. 문항과 5점 형식은 Douglas, Kirkpatrick & MacKenzie (CHI 1999)를 따랐다(표준은 7점을 권하지만 그 연구는 파일럿에서 더 잘게 못 나눠 5점을 씀). 조작에 필요한 힘, 부드러움, 정신적 노력, 신체적 노력, 정확히 맞추기("Accurate pointing"을 스크롤에 맞게 "원하는 위치에 정확히 맞추기"로), 조작 속도, 손가락·손목·팔·어깨·목 피로, 전반적 편안함, 전반적 사용. TLX의 "신체적 요구"는 한 숫자라 어디가 힘든지 안 보이는데, GripSpread는 컵 든 손 손가락·손목을, 트랙패드는 반대 손을 쓰므로 부위별 피로가 핵심이라 넣었다. 대응 Wilcoxon(정확 p) + 13문항 Holm 보정. 힘·노력·속도처럼 "너무 적음–너무 많음" 문항은 3이 가장 좋다. `<tag>_iso.csv`. 표준은 2012년에 ISO 9241-411로 바뀌었으므로 보고서 인용 판은 원문 확인 후 정한다.
 - **마지막 인터뷰 (반구조화, 약 5분):** 실험 프로그램 끝 화면 직전에 진행자용 화면으로 뜬다. 7문항: ① 두 방법 자유 소감(열린 질문을 먼저) ② 컵을 든 채 스크롤할 때 컵·쥔 손에서 신경 쓰인 점(H2·H3) ③ 컵 크기에 따른 차이(H1) ④ 멈추기 어려웠던 순간(속도 함수) ⑤ 손가락·손목·팔 불편·피로 ⑥ 하나만 고른다면(선호, 버튼 + 이유; 앞 답이 선택에 끌려가지 않게 뒤에 둠) ⑦ 일상에서 쓰고 싶은/싫은 상황(2차 정성 평가로 연결). 답 전체는 폰 녹화로 남기고 화면에는 진행자가 한두 줄 요약만 적는다. `<tag>_interview.csv`(pid, q, topic, question, note). 분석 페이지 **인터뷰 요약**에 참가자 × 질문 표와 선호 개수가 나온다.
 
 ## 가설 (데이터 보기 전에 정함)
